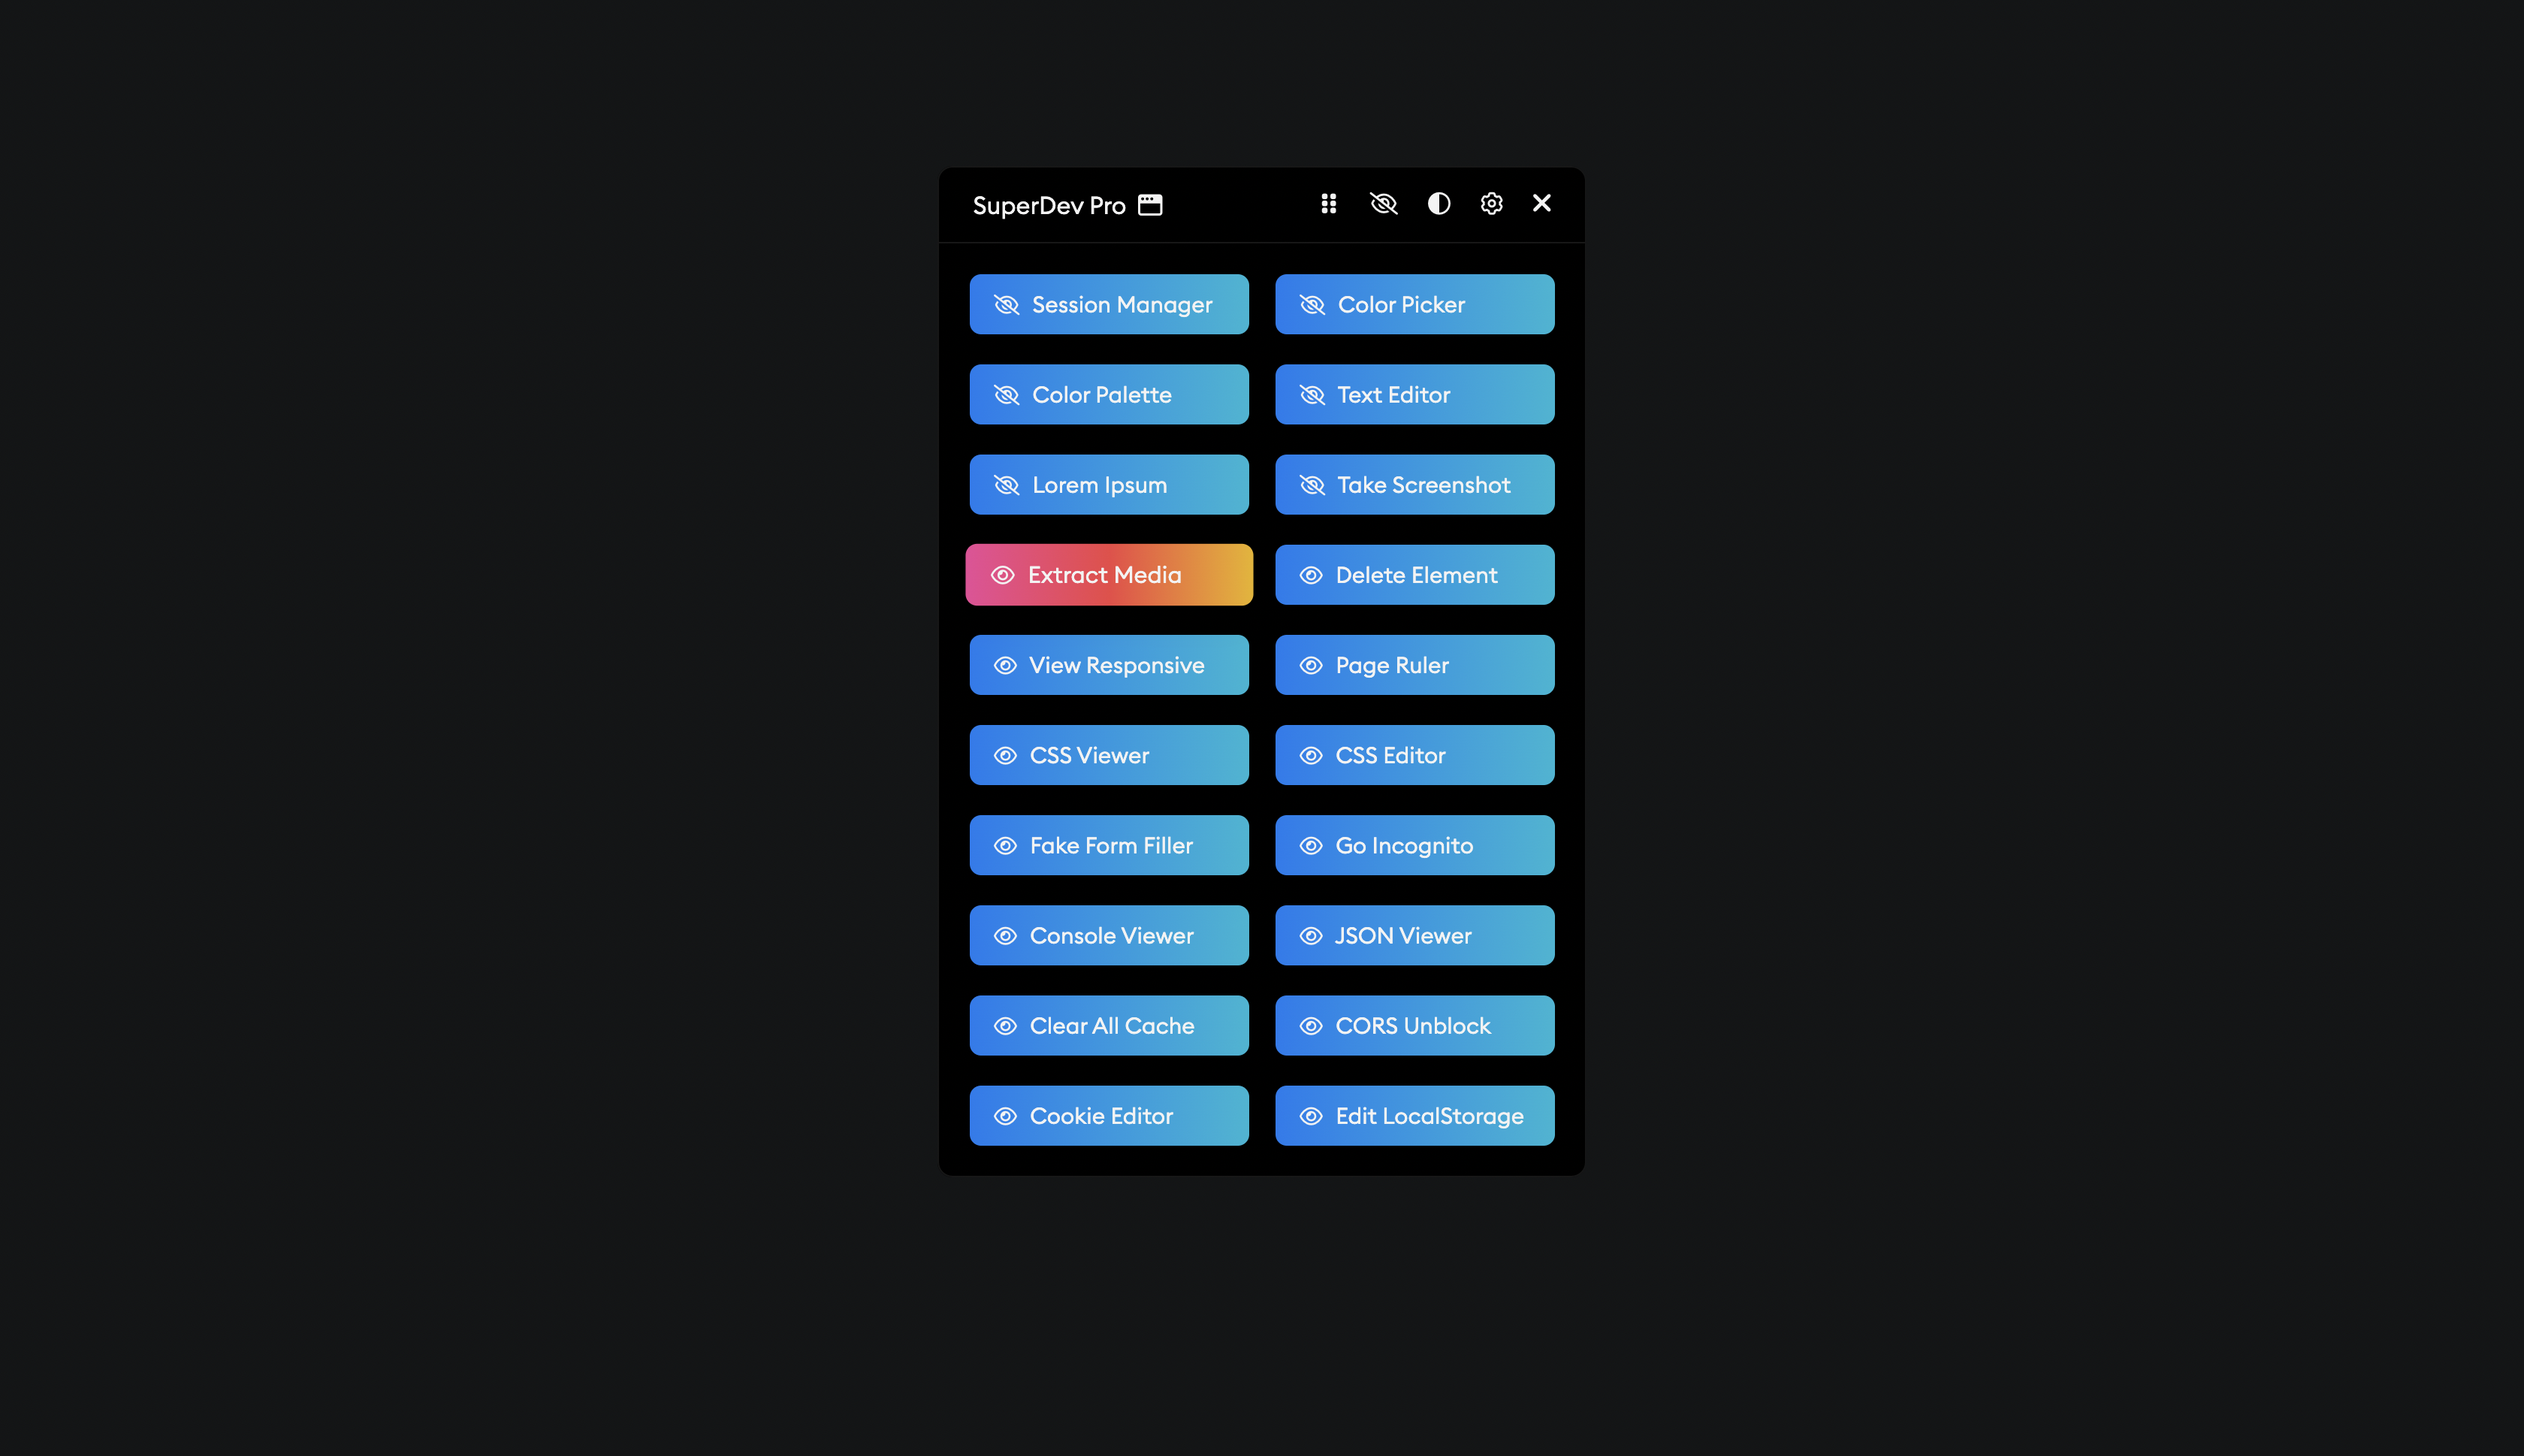
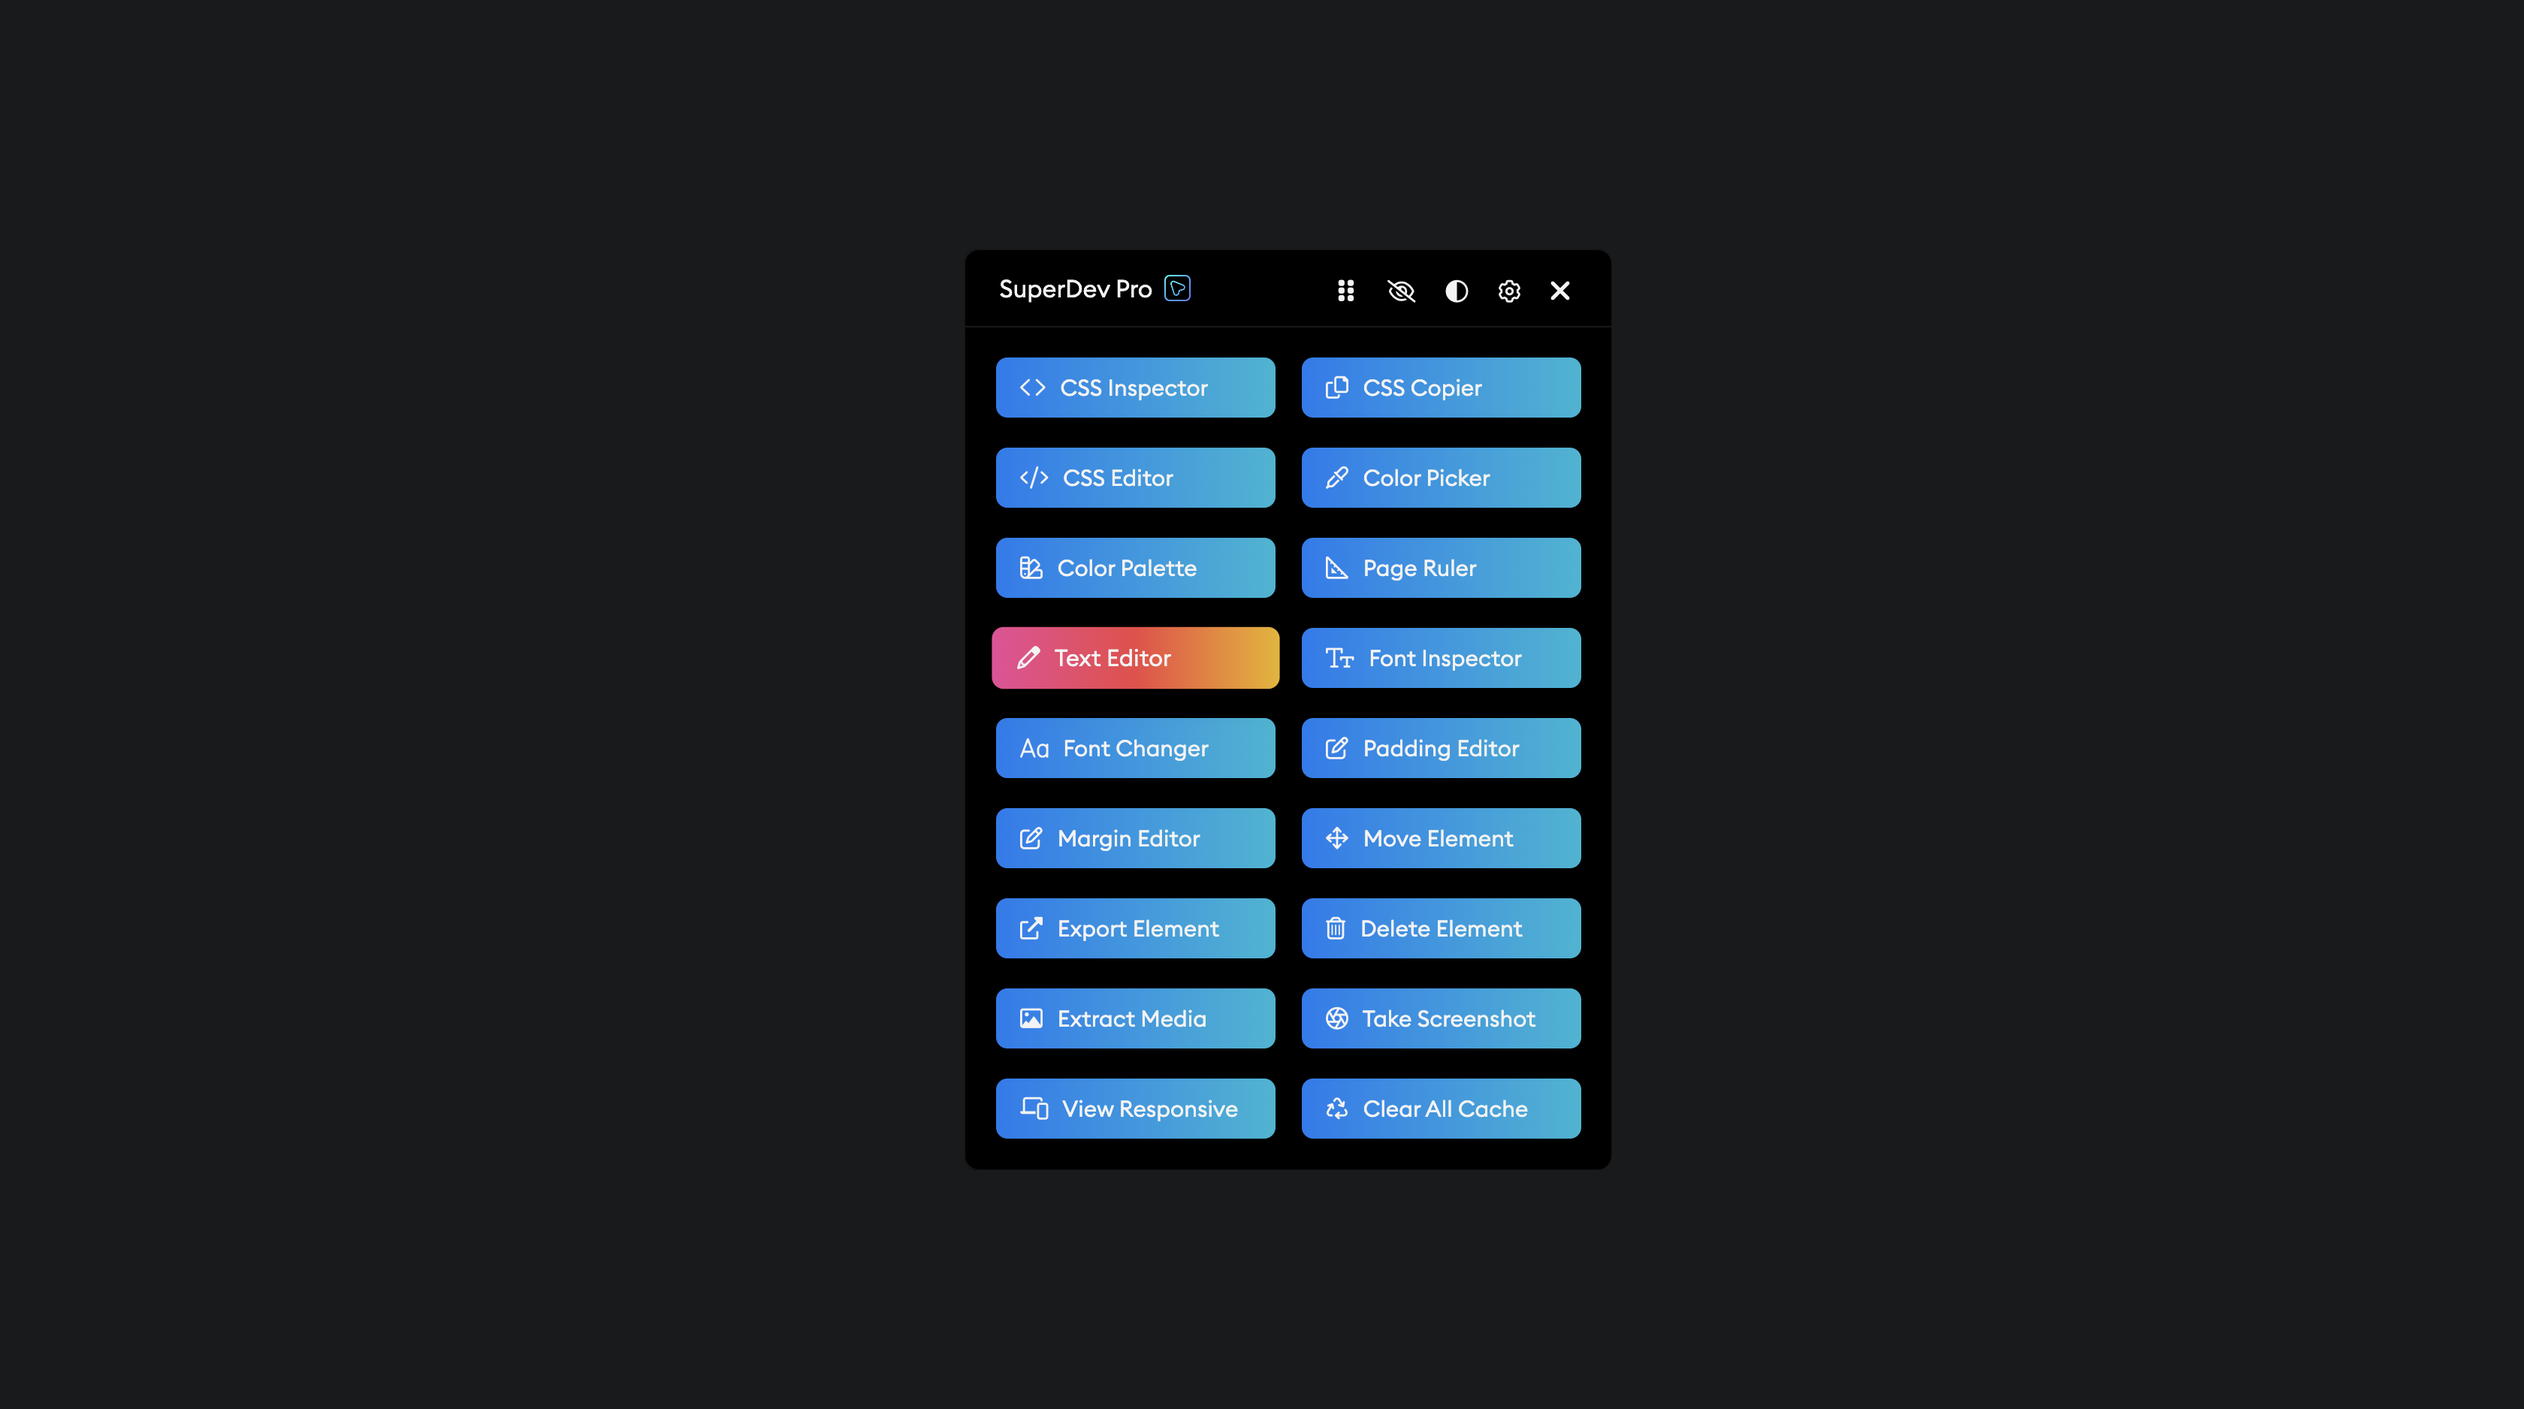
Updated Screenshots

Changed region(s): [[0.375, 0.0928, 0.625, 0.8348]]

diff --git a/README.md b/README.md
@@ -27,7 +27,7 @@ List of Feature below -
 ## Screenshots
 
 <p align="center">
-  <img src="https://github.com/twoabd/SuperDev/blob/main/screenshots/1.png">
+  <img src="https://github.com/twoabd/SuperDev/blob/main/screenshots/2.png">
 </p>
 
 ## Commands
